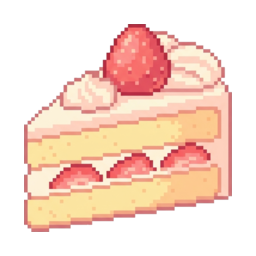
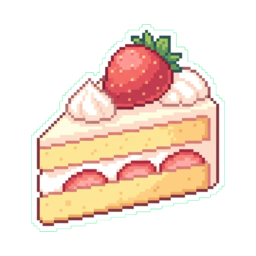
Improve sticker chroma key workflow

diff --git a/tests/generate-sticker-images.test.js b/tests/generate-sticker-images.test.js
@@ -26,4 +26,17 @@ describe('sticker generation script', () => {
 
         expect(output.trim()).toBe('256');
     });
+
+    it('should expose the chroma key background color', async () => {
+        const modulePath = path.resolve(__dirname, '../scripts/generate_sticker_images.mjs');
+        const output = execFileSync('node', [
+            '--input-type=module',
+            '-e',
+            `import { CHROMA_KEY_COLOR } from ${JSON.stringify(`file://${modulePath}`)}; console.log(CHROMA_KEY_COLOR);`
+        ], {
+            encoding: 'utf8'
+        });
+
+        expect(output.trim()).toBe('#00FF66');
+    });
 });

diff --git a/tests/main.test.js b/tests/main.test.js
@@ -70,8 +70,13 @@ describe('EduToys main.js', () => {
         expect(window.EduToys.audio.initialized).toBe(true);
         expect(window.EduToys.audio.bgm).toBeDefined();
 
+        const pixiApp = {
+            destroy: jest.fn()
+        };
+        window.EduToys.pixiApp = pixiApp;
         window.EduToys.cleanupGame();
 
+        expect(pixiApp.destroy).toHaveBeenCalledWith(true, { children: true });
         expect(window.Howler.unload).toHaveBeenCalled();
         expect(window.EduToys.audio.initialized).toBe(false);
         expect(window.EduToys.audio.bgm).toBeNull();

diff --git a/js/main.js b/js/main.js
@@ -515,7 +515,7 @@
         cleanupGame() {
             if (this.pixiApp) {
                 try {
-                    this.pixiApp.destroy(true, { children: true, texture: true, baseTexture: true });
+                    this.pixiApp.destroy(true, { children: true });
                 } catch (error) {
                     console.warn('PixiJS destroy error:', error);
                 }

diff --git a/.github/copilot-instructions.md b/.github/copilot-instructions.md
@@ -55,7 +55,7 @@
 - **モデル**: まず `gemini-3-pro-image-preview` を使い、失敗時のみ `gemini-3.1-flash-image-preview` にフォールバックしてください。
 - **保存先**: `static/stickers/nanobanana-output/` のような中間出力フォルダは使わず、`static/stickers/stickers.json` に定義された既存 PNG (`static/stickers/{category}/{name}.png`) を直接更新してください。
 - **形式統一**: API の返却が JPEG でも、最終保存形式は必ず PNG に統一してください。
-- **透過処理**: API の返却が透過でない場合でも、そのまま保存せず、四隅の背景色から透過化した PNG に正規化してください。
+- **透過処理**: 透過背景を直接期待せず、まず単色のクロマキー背景で生成し、その背景色を透過化して PNG に正規化してください。
 - **サイズ統一**: 最終出力はすべて `256x256` の正方形 PNG に統一し、モチーフは中央配置・同程度の余白でそろえてください。
 - **命名**: ファイル名は `stickers.json` の既存パスを正とし、新しい命名規則や別ディレクトリを追加しないでください。
 

diff --git a/.github/instructions/sticker-image-generation.instructions.md b/.github/instructions/sticker-image-generation.instructions.md
@@ -9,6 +9,6 @@ applyTo: "static/stickers/**,scripts/generate_sticker_images.mjs"
 - `static/stickers/nanobanana-output/` のような中間出力フォルダを新設せず、既存ファイルを直接更新してください。
 - モデルは `gemini-3-pro-image-preview` を優先し、失敗時のみ `gemini-3.1-flash-image-preview` を使ってください。
 - API が JPEG を返しても、最終保存は PNG に統一してください。
-- API が透過なし画像を返した場合も、そのまま保存せず、四隅の背景色から透過化した PNG に正規化してください。
+- 透過背景を直接期待せず、まず単色のクロマキー背景で生成し、その背景色を透過化した PNG に正規化してください。
 - 最終出力はすべて `256x256` の正方形 PNG に統一し、モチーフの見た目サイズもできるだけそろえてください。
 - `stickers.json` のパス・ID・カテゴリは既存定義を変更せず、そのまま使ってください。

diff --git a/static/stickers/pixel_sticker_prompts.md b/static/stickers/pixel_sticker_prompts.md
@@ -3,7 +3,7 @@
 ## 共通ルール
 - 生成コマンドは `npm run generate:stickers`
 - 出力先は別フォルダではなく、`static/stickers/...` の既存 PNG を直接更新する
-- 透過が返らない場合も、そのまま保存せず背景を透過化して PNG に正規化する
+- 生成時はいきなり透過背景を狙わず、単色のクロマキー背景で生成してから背景を透過化して PNG に正規化する
 - 最終出力はすべて 256x256 の正方形 PNG に統一し、モチーフは中央配置・同程度の余白にそろえる
 - 透過背景
 - PNG 出力
